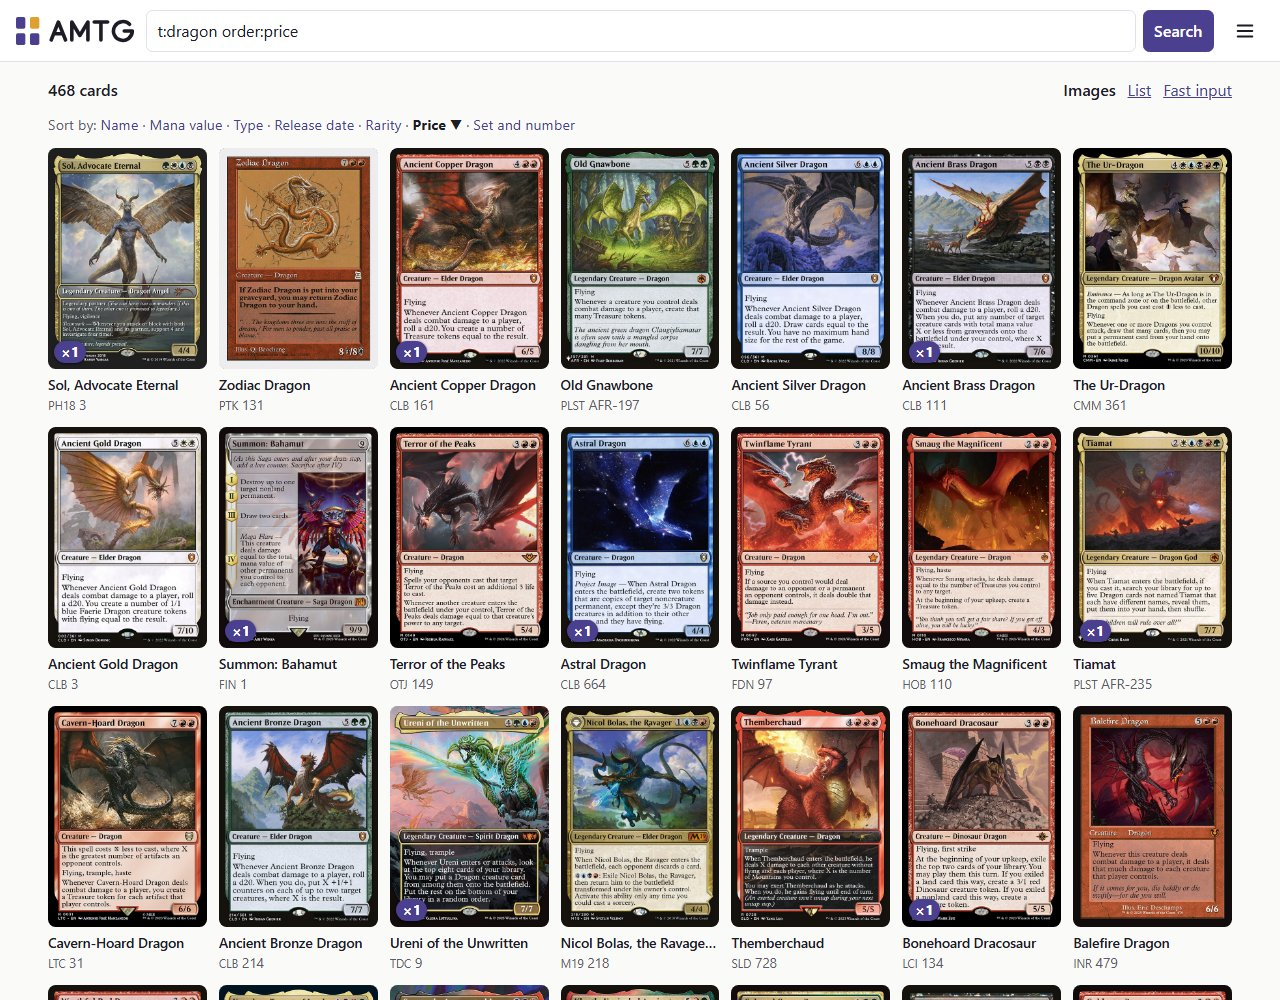
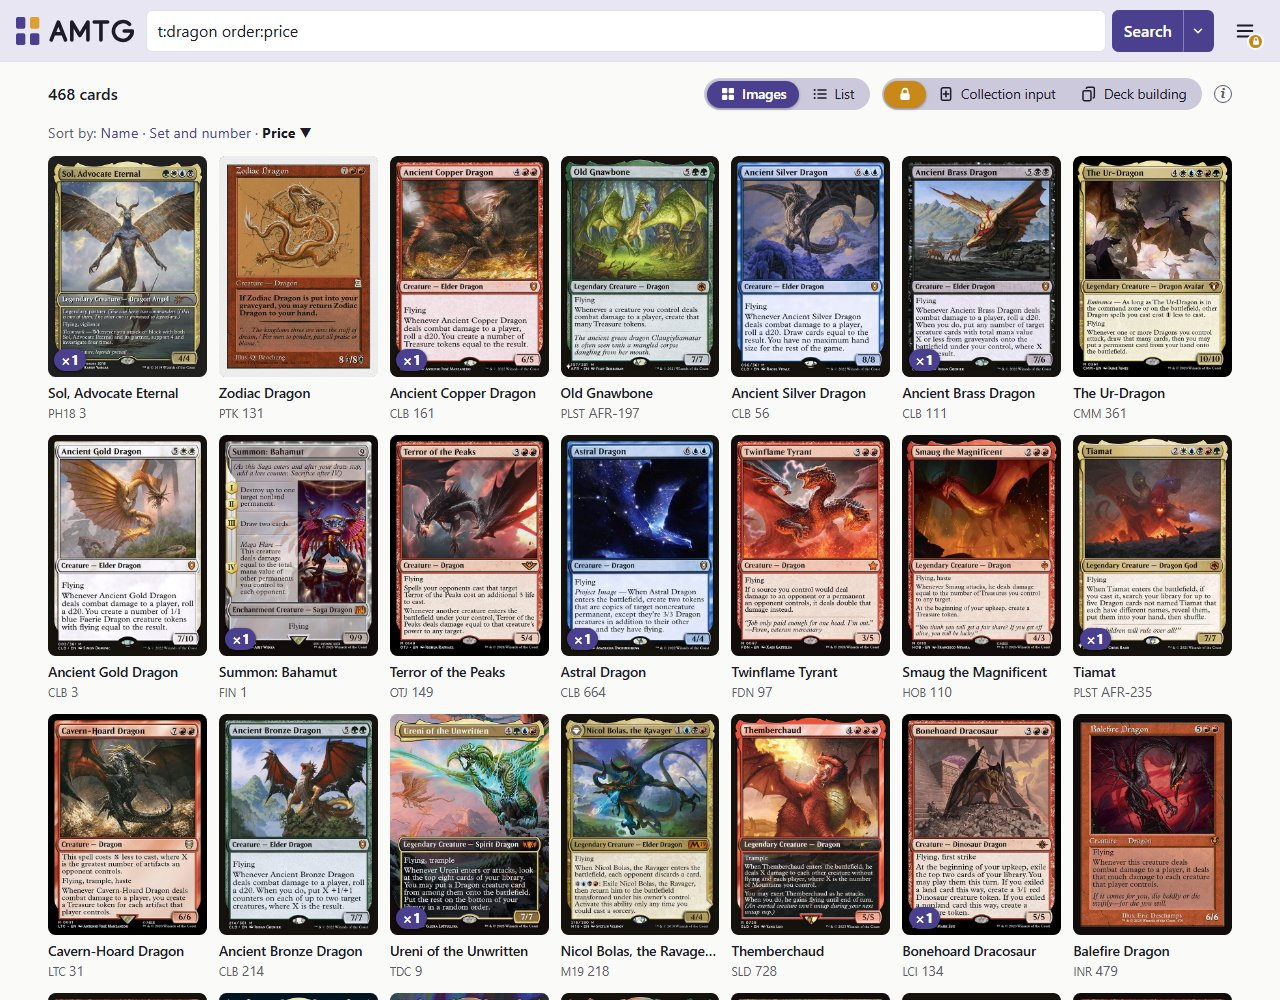
Site: screenshots retaken from the current app; the switch of what may change instead of the safety lock; no language recorded in the limits

diff --git a/site/it/index.html b/site/it/index.html
@@ -28,12 +28,12 @@
 </p>
 <p class="small">Gratuita e open source (<a href="https://github.com/ac-me-git/magic-db/blob/main/LICENSE">licenza MIT</a>). Nessun account, nessun abbonamento, nessuna telemetria.</p>
 </section>
-<section><div class="grid"><div class=card><h3>Tutte le carte, ogni notte</h3><p>Tutte le carte mai stampate, più quelle in anteprima, aggiornate ogni notte da Scryfall.</p></div><div class=card><h3>Una ricerca che parla Magic</h3><p>Scrivi <code>t:dragon c:r mv&lt;=4</code> oppure usa il pannello dei filtri, che scrive la ricerca per te.</p></div><div class=card><h3>La tua collezione, semplice</h3><p>Per ogni stampa, quante copie possiedi e in quale finitura. Niente altro da compilare.</p></div><div class=card><h3>Un set nuovo in pochi minuti</h3><p>L'inserimento rapido mette due caselle, non foil e foil, accanto a ogni carta di una ricerca: spuntane una e quella copia è nella collezione.</p></div><div class=card><h3>Mazzi che sanno cosa possiedi</h3><p>Incolla una lista e vedi quanto è completa, le carte mancanti e quelle contese fra più mazzi.</p></div><div class=card><h3>Statistiche</h3><p>Per colore, rarità, tipo e anno; valore; completamento dei set.</p></div><div class=card><h3>I tuoi dati restano tuoi</h3><p>Un solo file SQLite, esportabile in CSV o JSON quando vuoi, con un backup ogni notte.</p></div><div class=card><h3>Un blocco di sicurezza</h3><p>Sfoglia dal telefono senza modificare niente per sbaglio.</p></div><div class=card><h3>Italiano e inglese</h3><p>Cambia lingua in fondo a ogni pagina.</p></div></div></section>
+<section><div class="grid"><div class=card><h3>Tutte le carte, ogni notte</h3><p>Tutte le carte mai stampate, più quelle in anteprima, aggiornate ogni notte da Scryfall.</p></div><div class=card><h3>Una ricerca che parla Magic</h3><p>Scrivi <code>t:dragon c:r mv&lt;=4</code> oppure usa il pannello dei filtri, che scrive la ricerca per te.</p></div><div class=card><h3>La tua collezione, semplice</h3><p>Per ogni stampa, quante copie possiedi e in quale finitura. Niente altro da compilare.</p></div><div class=card><h3>Un set nuovo in pochi minuti</h3><p>L'inserimento rapido mette due caselle, non foil e foil, accanto a ogni carta di una ricerca: spuntane una e quella copia è nella collezione.</p></div><div class=card><h3>Mazzi che sanno cosa possiedi</h3><p>Incolla una lista e vedi quanto è completa, le carte mancanti e quelle contese fra più mazzi.</p></div><div class=card><h3>Statistiche</h3><p>Per colore, rarità, tipo e anno; valore; completamento dei set.</p></div><div class=card><h3>I tuoi dati restano tuoi</h3><p>Un solo file SQLite, esportabile in CSV o JSON quando vuoi, con un backup ogni notte.</p></div><div class=card><h3>Un interruttore per cosa si può modificare</h3><p>Bloccato, inserimento collezione o costruzione mazzi: sfoglia dal telefono senza modificare niente per sbaglio.</p></div><div class=card><h3>Italiano e inglese</h3><p>Cambia lingua in fondo a ogni pagina.</p></div></div></section>
 <section>
 <h2>Guardala all'opera</h2>
 <div class="shots">
 <figure><a href="../img/search.jpg"><img src="../img/search.jpg" alt="I risultati di una ricerca di draghi mostrati come immagini delle carte; quelli in collezione sono segnati ×1" loading="lazy" width="1280" height="1000"></a><figcaption>Ricerca: <code>t:dragon order:price</code> mostra tutti i draghi come immagini; ×1 segna quelli che hai.</figcaption></figure>
-<figure><a href="../img/fast.jpg"><img src="../img/fast.jpg" alt="Inserimento rapido: due grandi caselle, non foil e foil, accanto a ogni carta di un set" loading="lazy" width="1280" height="1000"></a><figcaption>Inserimento rapido: spunta una casella e la carta è nella collezione.</figcaption></figure>
+<figure><a href="../img/fast.jpg"><img src="../img/fast.jpg" alt="Inserimento rapido: con l'interruttore su Inserimento collezione, due grandi caselle, non foil e foil, accanto a ogni carta di un set" loading="lazy" width="1280" height="1000"></a><figcaption>Inserimento rapido, con l'interruttore su <em>Inserimento collezione</em>: spunta una casella e la carta è nella collezione.</figcaption></figure>
 <figure><a href="../img/deck.jpg"><img src="../img/deck.jpg" alt="La lista di un mazzo Commander con l'indicatore di completamento e le carte mancanti" loading="lazy" width="1280" height="1300"></a><figcaption>Un mazzo Commander, e quanto ne possiedi già.</figcaption></figure>
 <figure><a href="../img/stats.jpg"><img src="../img/stats.jpg" alt="Statistiche della collezione per colore, rarità, tipo e anno" loading="lazy" width="1280" height="1300"></a><figcaption>Statistiche per colore, rarità, tipo, anno e finitura.</figcaption></figure>
 </div>

diff --git a/site/index.html b/site/index.html
@@ -28,12 +28,12 @@
 </p>
 <p class="small">Free and open source (<a href="https://github.com/ac-me-git/magic-db/blob/main/LICENSE">MIT licence</a>). No account, no subscription, no telemetry.</p>
 </section>
-<section><div class="grid"><div class=card><h3>Every card, every night</h3><p>All cards ever printed, plus previewed ones, refreshed nightly from Scryfall.</p></div><div class=card><h3>Search that speaks Magic</h3><p>Type <code>t:dragon c:r mv&lt;=4</code> or use the filter panel, which writes the query for you.</p></div><div class=card><h3>Your collection, simply</h3><p>For every printing, how many copies you own and in which finish. Nothing more to fill in.</p></div><div class=card><h3>A new set in minutes</h3><p>Fast input puts two boxes, non-foil and foil, beside every card of a search: tick one and that copy is in your collection.</p></div><div class=card><h3>Decks that know what you own</h3><p>Paste a list and see completeness, missing cards, and cards several decks fight over.</p></div><div class=card><h3>Statistics</h3><p>By colour, rarity, type and year; value; set completion.</p></div><div class=card><h3>Your data stays yours</h3><p>One SQLite file, exported to CSV or JSON any time, backed up every night.</p></div><div class=card><h3>A safety lock</h3><p>Browse on your phone without changing anything by accident.</p></div><div class=card><h3>English and Italian</h3><p>Switch language at the bottom of any page.</p></div></div></section>
+<section><div class="grid"><div class=card><h3>Every card, every night</h3><p>All cards ever printed, plus previewed ones, refreshed nightly from Scryfall.</p></div><div class=card><h3>Search that speaks Magic</h3><p>Type <code>t:dragon c:r mv&lt;=4</code> or use the filter panel, which writes the query for you.</p></div><div class=card><h3>Your collection, simply</h3><p>For every printing, how many copies you own and in which finish. Nothing more to fill in.</p></div><div class=card><h3>A new set in minutes</h3><p>Fast input puts two boxes, non-foil and foil, beside every card of a search: tick one and that copy is in your collection.</p></div><div class=card><h3>Decks that know what you own</h3><p>Paste a list and see completeness, missing cards, and cards several decks fight over.</p></div><div class=card><h3>Statistics</h3><p>By colour, rarity, type and year; value; set completion.</p></div><div class=card><h3>Your data stays yours</h3><p>One SQLite file, exported to CSV or JSON any time, backed up every night.</p></div><div class=card><h3>A switch for what may change</h3><p>Locked, collection input or deck building: browse on your phone without changing anything by accident.</p></div><div class=card><h3>English and Italian</h3><p>Switch language at the bottom of any page.</p></div></div></section>
 <section>
 <h2>See it at work</h2>
 <div class="shots">
 <figure><a href="img/search.jpg"><img src="img/search.jpg" alt="Search results for dragons shown as card images; the ones in the collection are marked ×1" loading="lazy" width="1280" height="1000"></a><figcaption>Search: <code>t:dragon order:price</code> shows every dragon as card images; ×1 marks the ones you own.</figcaption></figure>
-<figure><a href="img/fast.jpg"><img src="img/fast.jpg" alt="Fast input: two big boxes, non-foil and foil, beside every card of a set" loading="lazy" width="1280" height="1000"></a><figcaption>Fast input: tick a box and the card is in your collection.</figcaption></figure>
+<figure><a href="img/fast.jpg"><img src="img/fast.jpg" alt="Fast input: with the switch on Collection input, two big boxes, non-foil and foil, beside every card of a set" loading="lazy" width="1280" height="1000"></a><figcaption>Fast input, with the switch on <em>Collection input</em>: tick a box and the card is in your collection.</figcaption></figure>
 <figure><a href="img/deck.jpg"><img src="img/deck.jpg" alt="A Commander deck list with completion gauge and missing cards" loading="lazy" width="1280" height="1300"></a><figcaption>A Commander deck, and how much of it you already own.</figcaption></figure>
 <figure><a href="img/stats.jpg"><img src="img/stats.jpg" alt="Collection statistics by colour, rarity, type and year" loading="lazy" width="1280" height="1300"></a><figcaption>Statistics by colour, rarity, type, year and finish.</figcaption></figure>
 </div>

diff --git a/site/it/install.html b/site/it/install.html
@@ -66,7 +66,7 @@ uv run magicdb</code></pre>
 
 <h2>Limiti</h2>
 <ul>
-<li>Nomi, testi e immagini delle carte sono in inglese. Una copia in un'altra lingua viene registrata sulla stampa inglese, con la lingua come attributo.</li>
+<li>Nomi, testi e immagini delle carte sono in inglese. La collezione non registra la lingua di una copia, le sue condizioni o dove è tenuta: solo la stampa, la finitura e quante copie.</li>
 <li>I prezzi sono gli ultimi di Scryfall (Cardmarket per l'euro, TCGplayer per il dollaro); non c'è uno storico dei prezzi.</li>
 <li>Una collezione per installazione; nessun account utente.</li>
 <li>Un mazzo è una <em>lista</em> con un nome e delle note, senza formato e senza sideboard. Mettere una carta nella lista di un mazzo non la toglie dalla collezione.</li>

diff --git a/site/install.html b/site/install.html
@@ -66,7 +66,7 @@ uv run magicdb</code></pre>
 
 <h2>Limits</h2>
 <ul>
-<li>Card names, text and images are in English. A copy in another language is recorded on the English printing, with its language as an attribute.</li>
+<li>Card names, text and images are in English. The collection does not record a copy's language, condition or where it is kept: only the printing, the finish and how many.</li>
 <li>Prices are the latest from Scryfall (Cardmarket for euro, TCGplayer for dollars); there is no price history.</li>
 <li>One collection per installation; no user accounts.</li>
 <li>A deck is a <em>list</em> with a name and notes, no format and no sideboard. Putting a card in a deck list does not take it from the collection.</li>

diff --git a/PLAN.md b/PLAN.md
@@ -51,6 +51,7 @@ Read `SPEC.md` first; section numbers below (§) refer to it.
 | + | Owner request: the switch leaves the menu; on the card page, at the bottom, the switch and the form it allows (collection, or a deck from a list) | done 2026-11-15, released as 2.0.0 on 2026-11-15 | Tests green. The card page's last section `#add`; the deck list starts on deck mode's deck (`decks.mode.choice`), and `POST /deck-cards` remembers the deck in the same cookie. |
 | + | Review before the public release: defects 1, 2, 3, 5 of the checklist below | done 2026-11-15, released as 2.0.0 on 2026-11-15 | 1130 tests green (6 new). Deck download: the header carries an ASCII name and the full name (`filename*`, RFC 6266; `decks.routes.attachment`). `deck=` is now the exact deck name (`= ?` on `decks.name`, which is NOCASE); `deck:` still contains. The switch writes and recognises only `deck="name"` (deck mode was never released, so no saved address uses `deck:`); the deck page's link too. SPEC §6.2, §7, §14, docs and both website guides follow; `docs/search-syntax.md` regenerated. Phone: `.slider .slider-label` is hidden under 40rem for both sliders, so the card page's switch fits (checked at 390 px in Italian, all three positions). Card page: `forms.made_in` offers only the printing's finishes; the remembered finish is used when offered; the service still accepts any finish (SPEC §5 rule rewritten). `test_add_then_the_finish_sticks` now uses Wrath of God (10e): Sol Ring c21 was never made in foil. Defect 4 waits for the owner's Reddit address. |
 | + | Review before the public release: the temporary contact link, leftovers, builds from `uv.lock` | done 2026-11-15, released as 2.0.0 on 2026-11-15 | 1130 tests green. *Contact me* → `github.com/ac-me-git/magic-db/issues` in the app and on 15 website pages, with a speech bubble instead of Reddit's icon (2.0.1 will point it at the owner's post). Removed: 4 unused strings, `.tile-bar`, `.fast-settings`, `TEXT_FIELDS`, `Added.unusual_finish` (its test now only checks the finish is kept), `layout` in `web.search_page`; `deckmode.copies` says deck. `search.*_named(kind, …)` became `has_deck` / `with_deck` / `swap_deck` / `deck_term`. The edit page is a `<section class="editing">` (no table). `/stats` computes set completion once (`stats.set_types` takes the list). Admin `.facts dd` wraps long paths. Docker: `uv export --locked` then `pip install --require-hashes`, then the app with `--no-deps`; `uv.lock` added to `.dockerignore`'s list; CI and release use `uv sync --locked`. Image built and run here (non-root 10001, `/healthz`, pages, "development version, commit 0123456"; fastapi 0.163.1 / starlette 1.10.0 as locked) — with a test-only copy of the Dockerfile that trusts this sandbox's proxy certificate. Still open: JSON import and decks, `history`/notes (owner), `/api/autocomplete`, catalog `schema_version`. |
+| + | Owner request: screenshots again, and the website brought up to date | done 2026-11-15 | No code changed (the website and this table only). The four images in `site/img/` retaken from the app as released in 2.0.0 (taken first from the commit before the review, then again after rebasing onto 2.0.0: three came out byte for byte the same, the search only differs by rendering noise): the new header, the Images/List and three-way sliders above the results, the switch on *Collection input* for fast input (list view), the deck page without format, the statistics. Same demo collection as before, rebuilt for the essential app (no locations, conditions or languages; the deck "Dragons" has no format): 8 owned dragons in the first rows of `t:dragon order:price`, the start of Foundations, the Miirym list with 82 of 100 owned, 110 random printings; 345 copies. Search, deck and statistics shot with the switch on *Locked*. Text: the home pages' "safety lock" card is now the switch of what may change, and the fast input caption and alt text name *Collection input* (English and Italian); the install pages' Limits no longer say a copy's language is recorded (it follows the README). Seen on the site served locally: four figures, all images load, both languages. The demo and screenshot scripts were again not committed (see the earlier TODO(owner)). |
 
 
 ## Review before the public release (2026-11-15)
